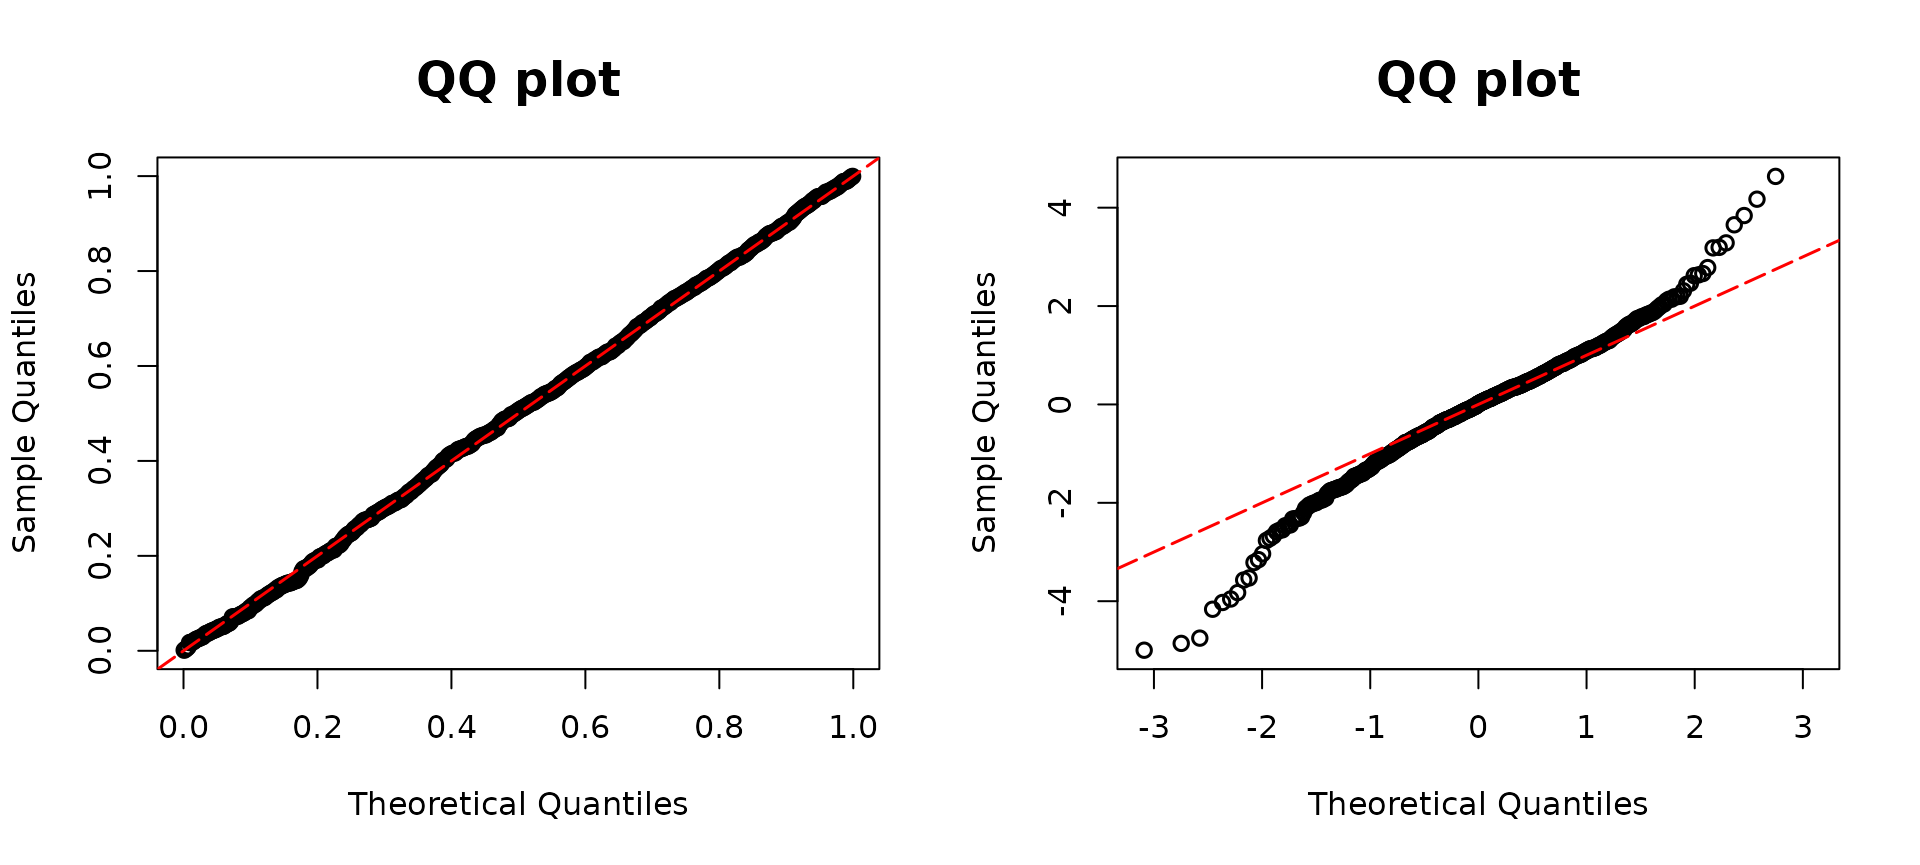
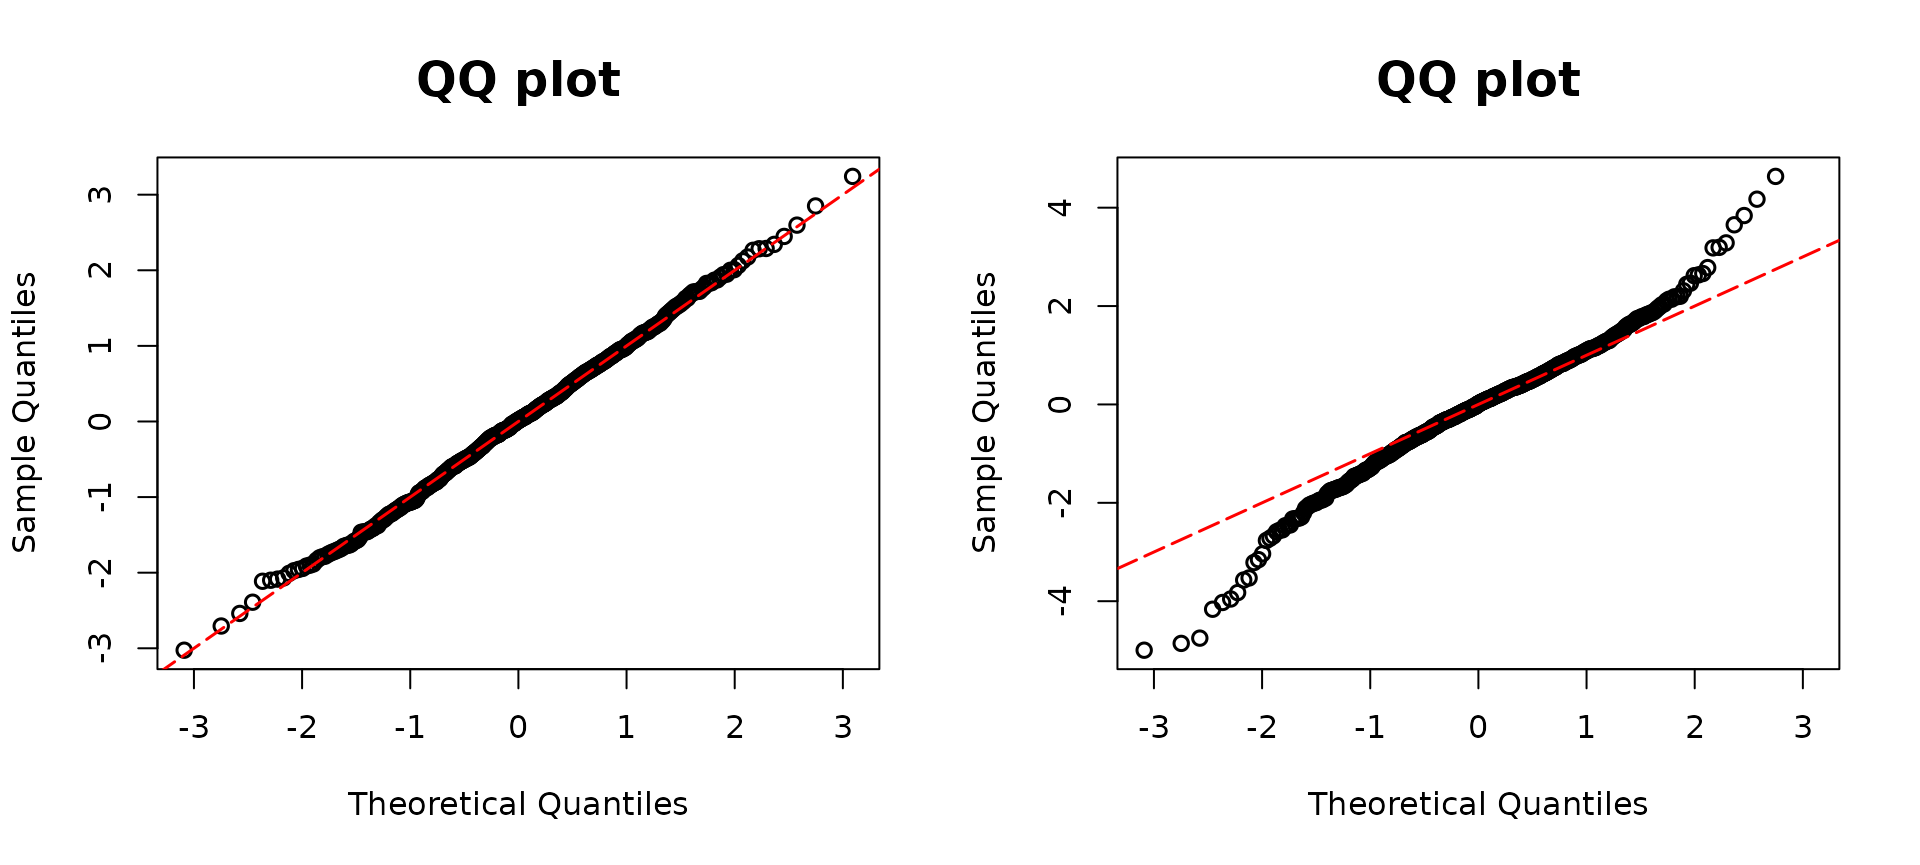
Deploying to gh-pages from @ jhlee1408/assessor@067f869bde30b17762c0a660058f8250c6471611 🚀

diff --git a/articles/disc.html b/articles/disc.html
@@ -113,7 +113,7 @@ QQ-plots. The suitable model objects are as follows:</p>
 <div class="active  tab-pane" id="negative-binomial" role="tabpanel" aria-labelledby="negative-binomial-tab">
 
 <p>An appropriate example of the usage of the <code><a href="../reference/resid_disc.html">resid_disc()</a></code>
-function is in the context of Negative binomial regression. We can do
+function is in the context of negative binomial regression. We can do
 this using the code below.</p>
 <div class="sourceCode" id="cb1"><pre class="downlit sourceCode r">
 <code class="sourceCode R"><span><span class="kw"><a href="https://rdrr.io/r/base/library.html" class="external-link">library</a></span><span class="op">(</span><span class="va"><a href="https://github.com/jhlee1408/assessor" class="external-link">assessor</a></span><span class="op">)</span></span>
@@ -134,21 +134,43 @@ this using the code below.</p>
 <span></span>
 <span><span class="co"># generate outcomes</span></span>
 <span><span class="va">y</span> <span class="op">&lt;-</span> <span class="fu"><a href="https://rdrr.io/r/stats/NegBinomial.html" class="external-link">rnbinom</a></span><span class="op">(</span><span class="va">n</span>, mu <span class="op">=</span> <span class="va">lambda1</span>, size <span class="op">=</span> <span class="va">size1</span><span class="op">)</span></span></code></pre></div>
-<p>Description here</p>
+<p>The true mean of <span class="math inline">\(Y\)</span> is
+intricately linked to both <span class="math inline">\(x_1\)</span> and
+<span class="math inline">\(x_2\)</span>, defined by the following
+relationship: <span class="math display">\[
+Y \sim \text{NB}(r=2, \mu = \beta_0 + \beta_1x_1 + \beta_2x_2)
+\]</span> Note that this notation provides an alternative
+parametrization, accentuating the emphasis on the mean structure rather
+than employing <span class="math inline">\(p\)</span>. Consequently,
+assuming the GLM model family follows a Poisson distribution would
+result in a violation of the model assumption. To assess this
+assumption,one can employ a QQ-plot generated through either
+<code>reisd_disc()</code> or <code><a href="../reference/qqresid.html">qqresid()</a></code>.</p>
 <div class="sourceCode" id="cb2"><pre class="downlit sourceCode r">
 <code class="sourceCode R"><span><span class="fu"><a href="https://rdrr.io/r/graphics/par.html" class="external-link">par</a></span><span class="op">(</span>mfrow<span class="op">=</span><span class="fu"><a href="https://rdrr.io/r/base/c.html" class="external-link">c</a></span><span class="op">(</span><span class="fl">1</span>,<span class="fl">2</span><span class="op">)</span><span class="op">)</span></span>
 <span><span class="co"># True model</span></span>
 <span><span class="va">model1</span> <span class="op">&lt;-</span> <span class="fu"><a href="https://rdrr.io/pkg/MASS/man/glm.nb.html" class="external-link">glm.nb</a></span><span class="op">(</span><span class="va">y</span> <span class="op">~</span> <span class="va">x1</span> <span class="op">+</span> <span class="va">x2</span><span class="op">)</span></span>
-<span><span class="va">resd1</span> <span class="op">&lt;-</span> <span class="fu"><a href="../reference/resid_disc.html">resid_disc</a></span><span class="op">(</span><span class="va">model1</span>, plot <span class="op">=</span> <span class="cn">TRUE</span>, scale <span class="op">=</span> <span class="st">"uniform"</span><span class="op">)</span></span>
+<span><span class="va">resd1</span> <span class="op">&lt;-</span> <span class="fu"><a href="../reference/resid_disc.html">resid_disc</a></span><span class="op">(</span><span class="va">model1</span>, plot <span class="op">=</span> <span class="cn">TRUE</span>, scale <span class="op">=</span> <span class="st">"normal"</span><span class="op">)</span></span>
 <span></span>
 <span><span class="co"># Overdispersion</span></span>
 <span><span class="va">model2</span> <span class="op">&lt;-</span> <span class="fu"><a href="https://rdrr.io/r/stats/glm.html" class="external-link">glm</a></span><span class="op">(</span><span class="va">y</span> <span class="op">~</span> <span class="va">x1</span> <span class="op">+</span> <span class="va">x2</span>, family <span class="op">=</span> <span class="fu"><a href="https://rdrr.io/r/stats/family.html" class="external-link">poisson</a></span><span class="op">(</span>link <span class="op">=</span> <span class="st">"log"</span><span class="op">)</span><span class="op">)</span></span>
 <span><span class="va">resd2</span> <span class="op">&lt;-</span> <span class="fu"><a href="../reference/resid_disc.html">resid_disc</a></span><span class="op">(</span><span class="va">model2</span>, plot <span class="op">=</span> <span class="cn">TRUE</span>, scale <span class="op">=</span> <span class="st">"normal"</span><span class="op">)</span></span></code></pre></div>
 <p><img src="disc_files/figure-html/nb%20res-1.png" width="960" style="display: block; margin: auto;">
-The interpretation is here</p>
+The <code>model1</code> is correctly specified as a Generalized Linear
+Model (GLM) assuming a negative binomial distribution, whereas
+<code>model2</code> incorrectly assumes the Poisson family. The
+interpretation of the plots aligns with a standard QQ-plot used in
+regression models assuming normal distribution. The left panel displays
+a diagonal QQ-plot along the straight red line, indicative of the model
+assumption holding. In contrast, the right panel deviates from a
+diagonal line, suggesting a lack of adherence to the assumption.
+Consequently, we can say that the model assumption holds when the
+QQ-plot is diagonal, and it does not hold when the plot deviates.</p>
 </div>
 <div class="tab-pane" id="poisson" role="tabpanel" aria-labelledby="poisson-tab">
 
+<p>Similarly, we can simulate Poisson random variable depending on
+covariates, <span class="math inline">\(x_1\)</span> and <span class="math inline">\(x_2\)</span>.</p>
 <div class="sourceCode" id="cb3"><pre class="downlit sourceCode r">
 <code class="sourceCode R"><span><span class="co">## Poisson example</span></span>
 <span><span class="va">n</span> <span class="op">&lt;-</span> <span class="fl">500</span></span>
@@ -156,13 +178,19 @@ The interpretation is here</p>
 <span><span class="co"># Covariates</span></span>
 <span><span class="va">x1</span> <span class="op">&lt;-</span> <span class="fu"><a href="https://rdrr.io/r/stats/Normal.html" class="external-link">rnorm</a></span><span class="op">(</span><span class="va">n</span><span class="op">)</span></span>
 <span><span class="va">x2</span> <span class="op">&lt;-</span> <span class="fu"><a href="https://rdrr.io/r/stats/Binomial.html" class="external-link">rbinom</a></span><span class="op">(</span><span class="va">n</span>, <span class="fl">1</span>, <span class="fl">0.7</span><span class="op">)</span></span>
+<span></span>
 <span><span class="co"># Coefficients</span></span>
 <span><span class="va">beta0</span> <span class="op">&lt;-</span> <span class="op">-</span><span class="fl">2</span></span>
 <span><span class="va">beta1</span> <span class="op">&lt;-</span> <span class="fl">2</span></span>
 <span><span class="va">beta2</span> <span class="op">&lt;-</span> <span class="fl">1</span></span>
 <span><span class="va">lambda1</span> <span class="op">&lt;-</span> <span class="fu"><a href="https://rdrr.io/r/base/Log.html" class="external-link">exp</a></span><span class="op">(</span><span class="va">beta0</span> <span class="op">+</span> <span class="va">beta1</span> <span class="op">*</span> <span class="va">x1</span> <span class="op">+</span> <span class="va">beta2</span> <span class="op">*</span> <span class="va">x2</span><span class="op">)</span></span>
 <span><span class="va">y</span> <span class="op">&lt;-</span> <span class="fu"><a href="https://rdrr.io/r/stats/Poisson.html" class="external-link">rpois</a></span><span class="op">(</span><span class="va">n</span>, <span class="va">lambda1</span><span class="op">)</span></span></code></pre></div>
-<p>Description here</p>
+<p>The true mean of <span class="math inline">\(Y\)</span> is
+intricately connected to both <span class="math inline">\(x_1\)</span>
+and <span class="math inline">\(x_2\)</span>, as expressed in the
+ensuing relationship: <span class="math display">\[
+Y \sim \text{Poisson}(\lambda = \beta_0 + \beta_1 x_1 + \beta_2 x_2)
+\]</span></p>
 <div class="sourceCode" id="cb4"><pre class="downlit sourceCode r">
 <code class="sourceCode R"><span><span class="fu"><a href="https://rdrr.io/r/graphics/par.html" class="external-link">par</a></span><span class="op">(</span>mfrow<span class="op">=</span><span class="fu"><a href="https://rdrr.io/r/base/c.html" class="external-link">c</a></span><span class="op">(</span><span class="fl">1</span>,<span class="fl">2</span><span class="op">)</span><span class="op">)</span></span>
 <span><span class="co"># True model</span></span>
@@ -174,10 +202,17 @@ The interpretation is here</p>
 <span><span class="va">poismodel2</span> <span class="op">&lt;-</span> <span class="fu"><a href="https://rdrr.io/r/stats/glm.html" class="external-link">glm</a></span><span class="op">(</span><span class="va">y</span> <span class="op">~</span> <span class="va">x1</span> <span class="op">+</span> <span class="va">x2</span>, family <span class="op">=</span> <span class="fu"><a href="https://rdrr.io/r/stats/family.html" class="external-link">poisson</a></span><span class="op">(</span>link <span class="op">=</span> <span class="st">"log"</span><span class="op">)</span><span class="op">)</span></span>
 <span><span class="va">resid2</span> <span class="op">&lt;-</span> <span class="fu"><a href="../reference/resid_disc.html">resid_disc</a></span><span class="op">(</span><span class="va">poismodel2</span>, plot <span class="op">=</span> <span class="cn">TRUE</span><span class="op">)</span></span></code></pre></div>
 <p><img src="disc_files/figure-html/poisson%202-1.png" width="960" style="display: block; margin: auto;">
-Interpretation here</p>
+In the case of the negative binomial example, the left panel
+corresponding to the true <code>model1</code> demonstrates the adherence
+of the model to its assumptions. Conversely, intentionally enlarging
+three observations and applying them to the <code>model2</code> results
+in the three points on the right panel deviating from the red diagonal
+line. This departure indicates that outlier detection can be performed
+by examining a QQ-plot.</p>
 </div>
 <div class="tab-pane" id="binary" role="tabpanel" aria-labelledby="binary-tab">
 
+<p>For the binary example, generate Bernoulli random variable, <span class="math inline">\(Y\)</span>, whose mean depends on covariates <span class="math inline">\(x_1\)</span> and <span class="math inline">\(x_2\)</span>.</p>
 <div class="sourceCode" id="cb5"><pre class="downlit sourceCode r">
 <code class="sourceCode R"><span><span class="co">## Binary example</span></span>
 <span><span class="va">n</span> <span class="op">&lt;-</span> <span class="fl">500</span></span>
@@ -191,7 +226,17 @@ Interpretation here</p>
 <span><span class="va">beta2</span> <span class="op">&lt;-</span> <span class="fl">1</span></span>
 <span><span class="va">beta3</span> <span class="op">&lt;-</span> <span class="fl">3</span></span>
 <span><span class="va">q1</span> <span class="op">&lt;-</span> <span class="fl">1</span> <span class="op">/</span> <span class="op">(</span><span class="fl">1</span> <span class="op">+</span> <span class="fu"><a href="https://rdrr.io/r/base/Log.html" class="external-link">exp</a></span><span class="op">(</span><span class="va">beta0</span> <span class="op">+</span> <span class="va">beta1</span> <span class="op">*</span> <span class="va">x1</span> <span class="op">+</span> <span class="va">beta2</span> <span class="op">*</span> <span class="va">x2</span> <span class="op">+</span> <span class="va">beta3</span> <span class="op">*</span> <span class="va">x1</span> <span class="op">*</span> <span class="va">x2</span><span class="op">)</span><span class="op">)</span></span>
+<span></span>
 <span><span class="va">y1</span> <span class="op">&lt;-</span> <span class="fu"><a href="https://rdrr.io/r/stats/Binomial.html" class="external-link">rbinom</a></span><span class="op">(</span><span class="va">n</span>, size <span class="op">=</span> <span class="fl">1</span>, prob <span class="op">=</span> <span class="fl">1</span> <span class="op">-</span> <span class="va">q1</span><span class="op">)</span></span></code></pre></div>
+<p>Then, the exact <span class="math inline">\(Y\)</span> follows the
+distribution as follows: <span class="math display">\[
+Y \sim \text{Ber}(p) \quad \text{where } p =
+\frac{1}{1+e^{-\beta_0-\beta_1x_1-\beta_2x_2-\beta_4x_1x_2}}
+\]</span> In contrast to the preceding examples, we introduce the
+interaction term between <span class="math inline">\(x_1\)</span> and
+<span class="math inline">\(x_2.\)</span> Consequently, the omission of
+<span class="math inline">\(x_2\)</span> in the model is anticipated to
+result in a non-diagonal QQ-plot.</p>
 <div class="sourceCode" id="cb6"><pre class="downlit sourceCode r">
 <code class="sourceCode R"><span><span class="fu"><a href="https://rdrr.io/r/graphics/par.html" class="external-link">par</a></span><span class="op">(</span>mfrow<span class="op">=</span><span class="fu"><a href="https://rdrr.io/r/base/c.html" class="external-link">c</a></span><span class="op">(</span><span class="fl">1</span>,<span class="fl">2</span><span class="op">)</span><span class="op">)</span></span>
 <span><span class="co"># True model</span></span>
@@ -201,10 +246,18 @@ Interpretation here</p>
 <span><span class="co"># Missing covariates</span></span>
 <span><span class="va">model02</span> <span class="op">&lt;-</span> <span class="fu"><a href="https://rdrr.io/r/stats/glm.html" class="external-link">glm</a></span><span class="op">(</span><span class="va">y1</span> <span class="op">~</span> <span class="va">x1</span>, family <span class="op">=</span> <span class="fu"><a href="https://rdrr.io/r/stats/family.html" class="external-link">binomial</a></span><span class="op">(</span>link <span class="op">=</span> <span class="st">"logit"</span><span class="op">)</span><span class="op">)</span></span>
 <span><span class="va">resid2</span> <span class="op">&lt;-</span> <span class="fu"><a href="../reference/resid_disc.html">resid_disc</a></span><span class="op">(</span><span class="va">model02</span>, plot <span class="op">=</span> <span class="cn">TRUE</span><span class="op">)</span></span></code></pre></div>
-<p><img src="disc_files/figure-html/bin2-1.png" width="960" style="display: block; margin: auto;"></p>
+<p><img src="disc_files/figure-html/bin2-1.png" width="960" style="display: block; margin: auto;">
+The true model, distinguished as <code>model1</code>, is visually
+represented in the left panel, showcasing an alignment with the red
+diagonal line. This alignment serves as an indicator of the model’s
+adherence to the expected pattern. On the other hand,
+<code>model2</code>, made without the inclusion of the variable <span class="math inline">\(x_2\)</span>, presents a deviation from the
+prescribed red diagonal line.</p>
 </div>
 <div class="tab-pane" id="ordinal" role="tabpanel" aria-labelledby="ordinal-tab">
 
+<p>Our <code><a href="../reference/resid_disc.html">resid_disc()</a></code> function is also applicable to ordinal
+regression fitted by <code><a href="https://rdrr.io/pkg/MASS/man/polr.html" class="external-link">MASS::polr()</a></code>.</p>
 <div class="sourceCode" id="cb7"><pre class="downlit sourceCode r">
 <code class="sourceCode R"><span><span class="co">## Ordinal example</span></span>
 <span><span class="va">n</span> <span class="op">&lt;-</span> <span class="fl">500</span></span>
@@ -227,7 +280,10 @@ Interpretation here</p>
 <span><span class="va">y1</span><span class="op">[</span><span class="fu"><a href="https://rdrr.io/r/base/which.html" class="external-link">which</a></span><span class="op">(</span><span class="va">test</span><span class="op">[</span><span class="fl">2</span>, <span class="op">]</span> <span class="op">==</span> <span class="fl">1</span><span class="op">)</span><span class="op">]</span> <span class="op">&lt;-</span> <span class="fl">1</span></span>
 <span><span class="va">y1</span><span class="op">[</span><span class="fu"><a href="https://rdrr.io/r/base/which.html" class="external-link">which</a></span><span class="op">(</span><span class="va">test</span><span class="op">[</span><span class="fl">3</span>, <span class="op">]</span> <span class="op">==</span> <span class="fl">1</span><span class="op">)</span><span class="op">]</span> <span class="op">&lt;-</span> <span class="fl">2</span></span>
 <span><span class="va">multimodel</span> <span class="op">&lt;-</span> <span class="fu"><a href="https://rdrr.io/pkg/MASS/man/polr.html" class="external-link">polr</a></span><span class="op">(</span><span class="fu"><a href="https://rdrr.io/r/base/factor.html" class="external-link">as.factor</a></span><span class="op">(</span><span class="va">y1</span><span class="op">)</span> <span class="op">~</span> <span class="va">x1</span>, method <span class="op">=</span> <span class="st">"logistic"</span><span class="op">)</span></span></code></pre></div>
-<p>True model here</p>
+<p>We generate a multinomial random variable depending on <span class="math inline">\(x_1\)</span> in such a way that <span class="math display">\[
+(Y_1, Y_2, Y_3) \sim \text{multi}(2;\ p_1, p_2, p_3) \quad \text{where }
+\sum_{i=1}^3 p_i = 1   
+\]</span></p>
 <div class="sourceCode" id="cb8"><pre class="downlit sourceCode r">
 <code class="sourceCode R"><span><span class="co">## Non-Proportionality</span></span>
 <span><span class="va">n</span> <span class="op">&lt;-</span> <span class="fl">500</span></span>
@@ -236,7 +292,7 @@ Interpretation here</p>
 <span><span class="va">beta1</span> <span class="op">&lt;-</span> <span class="fl">3</span></span>
 <span><span class="va">beta2</span> <span class="op">&lt;-</span> <span class="fl">1</span></span>
 <span><span class="va">p0</span> <span class="op">&lt;-</span> <span class="fu"><a href="https://rdrr.io/r/stats/Logistic.html" class="external-link">plogis</a></span><span class="op">(</span><span class="fl">1</span>, location <span class="op">=</span> <span class="va">beta1</span> <span class="op">*</span> <span class="va">x1</span><span class="op">)</span></span>
-<span><span class="va">p1</span> <span class="op">&lt;-</span> <span class="fu"><a href="https://rdrr.io/r/stats/Logistic.html" class="external-link">plogis</a></span><span class="op">(</span><span class="fl">4</span>, location <span class="op">=</span> <span class="va">beta2</span> <span class="op">*</span> <span class="va">x1</span><span class="op">)</span> <span class="op">-</span> <span class="va">p0</span></span>
+<span><span class="va">p1</span> <span class="op">&lt;-</span> <span class="fu"><a href="https://rdrr.io/r/stats/Logistic.html" class="external-link">plogis</a></span><span class="op">(</span><span class="fl">4</span>, location <span class="op">=</span> <span class="va">beta2</span> <span class="op">*</span> <span class="va">x1</span><span class="op">)</span> <span class="op">-</span> <span class="va">p0</span> </span>
 <span><span class="va">p2</span> <span class="op">&lt;-</span> <span class="fl">1</span> <span class="op">-</span> <span class="va">p0</span> <span class="op">-</span> <span class="va">p1</span></span>
 <span><span class="va">genemult</span> <span class="op">&lt;-</span> <span class="kw">function</span><span class="op">(</span><span class="va">p</span><span class="op">)</span> <span class="op">{</span></span>
 <span>  <span class="fu"><a href="https://rdrr.io/r/stats/Multinom.html" class="external-link">rmultinom</a></span><span class="op">(</span><span class="fl">1</span>, size <span class="op">=</span> <span class="fl">1</span>, prob <span class="op">=</span> <span class="fu"><a href="https://rdrr.io/r/base/c.html" class="external-link">c</a></span><span class="op">(</span><span class="va">p</span><span class="op">[</span><span class="fl">1</span><span class="op">]</span>, <span class="va">p</span><span class="op">[</span><span class="fl">2</span><span class="op">]</span>, <span class="va">p</span><span class="op">[</span><span class="fl">3</span><span class="op">]</span><span class="op">)</span><span class="op">)</span></span>
@@ -247,12 +303,24 @@ Interpretation here</p>
 <span><span class="va">y1</span><span class="op">[</span><span class="fu"><a href="https://rdrr.io/r/base/which.html" class="external-link">which</a></span><span class="op">(</span><span class="va">test</span><span class="op">[</span><span class="fl">2</span>, <span class="op">]</span> <span class="op">==</span> <span class="fl">1</span><span class="op">)</span><span class="op">]</span> <span class="op">&lt;-</span> <span class="fl">1</span></span>
 <span><span class="va">y1</span><span class="op">[</span><span class="fu"><a href="https://rdrr.io/r/base/which.html" class="external-link">which</a></span><span class="op">(</span><span class="va">test</span><span class="op">[</span><span class="fl">3</span>, <span class="op">]</span> <span class="op">==</span> <span class="fl">1</span><span class="op">)</span><span class="op">]</span> <span class="op">&lt;-</span> <span class="fl">2</span></span>
 <span><span class="va">multimodel2</span> <span class="op">&lt;-</span> <span class="fu"><a href="https://rdrr.io/pkg/MASS/man/polr.html" class="external-link">polr</a></span><span class="op">(</span><span class="fu"><a href="https://rdrr.io/r/base/factor.html" class="external-link">as.factor</a></span><span class="op">(</span><span class="va">y1</span><span class="op">)</span> <span class="op">~</span> <span class="va">x1</span>, method <span class="op">=</span> <span class="st">"logistic"</span><span class="op">)</span></span></code></pre></div>
-<p>Non proportinality here</p>
+<p>However, we opted for the utilization of <code>beta2</code> instead
+of <code>beta1.</code> This deliberate selection was made with the
+specific aim of creating a non-proportional scenario, introducing
+variability in the influence of variables on the model that deviates
+from the model assumption.</p>
 <div class="sourceCode" id="cb9"><pre class="downlit sourceCode r">
 <code class="sourceCode R"><span><span class="fu"><a href="https://rdrr.io/r/graphics/par.html" class="external-link">par</a></span><span class="op">(</span>mfrow<span class="op">=</span><span class="fu"><a href="https://rdrr.io/r/base/c.html" class="external-link">c</a></span><span class="op">(</span><span class="fl">1</span>,<span class="fl">2</span><span class="op">)</span><span class="op">)</span></span>
 <span><span class="va">resid1</span> <span class="op">&lt;-</span> <span class="fu"><a href="../reference/resid_disc.html">resid_disc</a></span><span class="op">(</span><span class="va">multimodel</span>, plot <span class="op">=</span> <span class="cn">TRUE</span><span class="op">)</span></span>
 <span><span class="va">resid2</span> <span class="op">&lt;-</span> <span class="fu"><a href="../reference/resid_disc.html">resid_disc</a></span><span class="op">(</span><span class="va">multimodel2</span>, plot <span class="op">=</span> <span class="cn">TRUE</span><span class="op">)</span></span></code></pre></div>
-<p><img src="disc_files/figure-html/ordinal%203-1.png" width="960" style="display: block; margin: auto;"></p>
+<p><img src="disc_files/figure-html/ordinal%203-1.png" width="960" style="display: block; margin: auto;">
+As a result, when considering the diagnostic assessment through
+QQ-plots, <code>model1</code> exhibits a diagonal QQ-plot, indicating a
+favorable alignment with the underlying assumptions. In contrast, the
+QQ-plot associated with <code>model2</code> deviates from the expected
+diagonal line, suggesting a departure from the idealized model
+assumptions. This discrepancy underscores the importance of careful
+consideration and inclusion of relevant variables in model specification
+to ensure the robustness and validity of statistical models.</p>
 </div>
 </div>
 </div>
